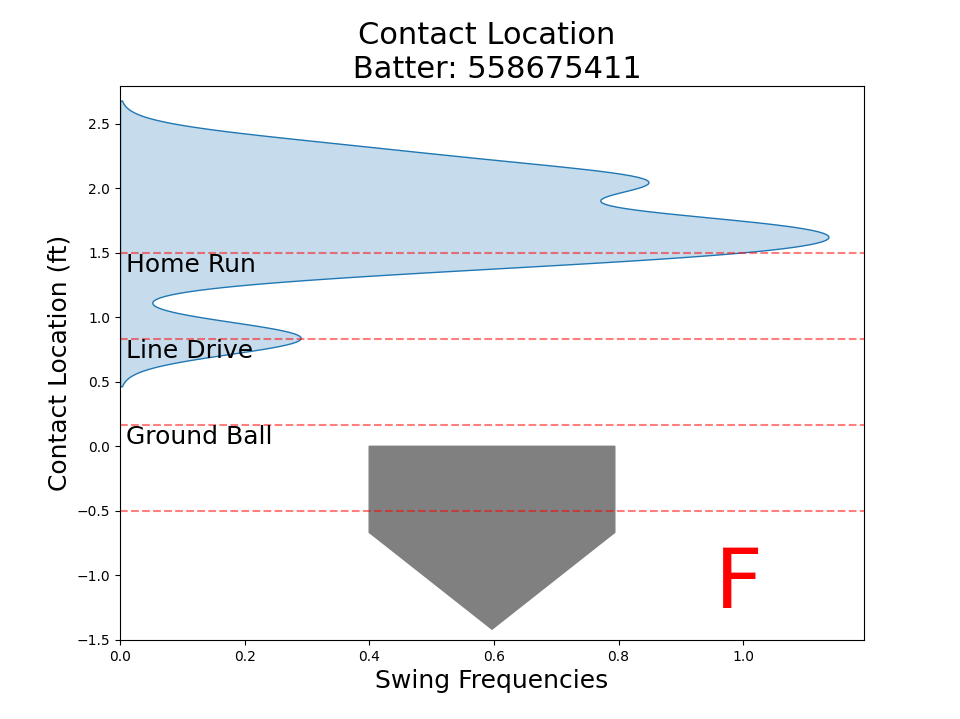
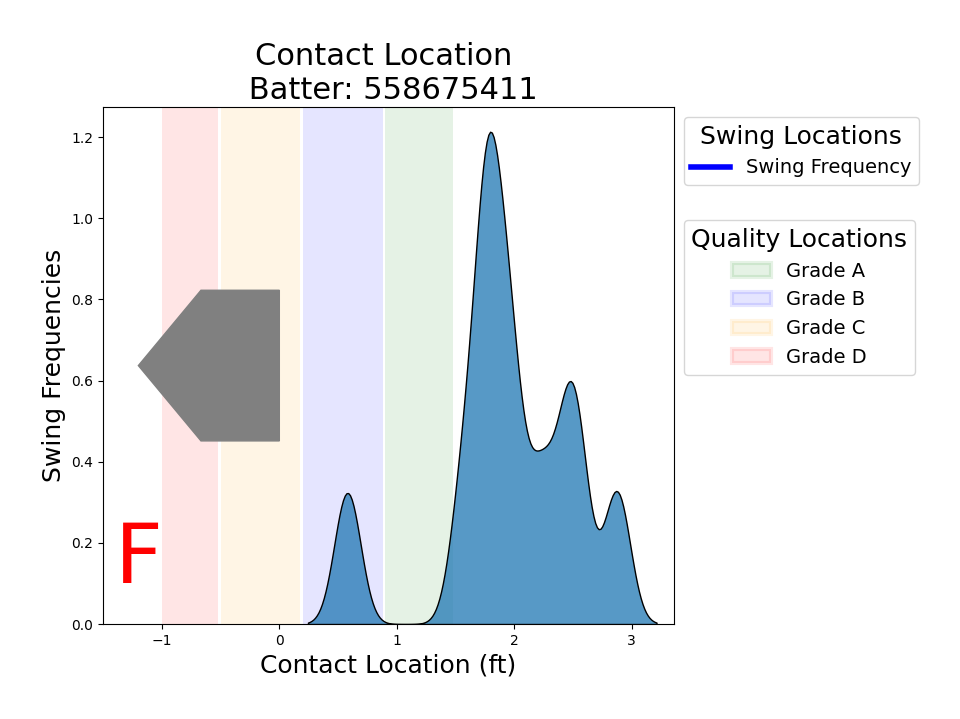
update contact loc plots in docs

diff --git a/src_deploy/contact_loc.py b/src_deploy/contact_loc.py
@@ -180,8 +180,8 @@ if __name__ == '__main__':
         ]
         grade = timing_score_df[timing_score_df['batter'] == batter_id]['timing_grade'].values[0]
         fig = viz_contact_loc(batter_df, grade, qual_locs)
-        plt.show()
-        # plt.savefig(f'../images/grades/testing/rotated_{batter_id}_contact_location.png')
+        # plt.show()
+        plt.savefig(f'../images/grades/{batter_id}_contact_location.png')
 
     widget_fig = viz_contact_loc(None, None, qual_locs)
     plt.show()
